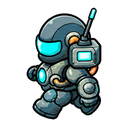
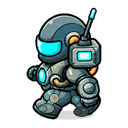
feat: add lower body motion, leg readability, and bulk stats for vanguard running frames

Changed region(s): [[0.4375, 0.6875, 0.75, 0.9375], [0.2812, 0.6875, 0.4688, 0.9062]]

diff --git a/src/visual/storyAssetFiles.test.ts b/src/visual/storyAssetFiles.test.ts
@@ -26,6 +26,19 @@ interface DiamondFlatnessStats {
   inner: LuminanceStats;
 }
 
+interface LowerBodyMotionStats {
+  horizontalCenterSpread: number;
+  opaquePixelSpread: number;
+}
+
+interface LowerBodyLegReadabilityStats {
+  averageSideToCenterLuminanceGap: number;
+}
+
+interface LowerBodyBulkStats {
+  averageOpaqueCoverage: number;
+}
+
 const A2_CITY_EXPECTED_DIMENSIONS: Record<
   string,
   { width: number; height: number }
@@ -395,6 +408,112 @@ function getDiamondQuadrantAverageSpread(png: PngInfo): number {
   return Math.max(...averages) - Math.min(...averages);
 }
 
+function getLowerBodyMotionStats(assetPaths: string[]): LowerBodyMotionStats {
+  const centers: number[] = [];
+  const opaquePixelCounts: number[] = [];
+
+  for (const assetPath of assetPaths) {
+    const png = readPngInfo(publicAssetPath(assetPath));
+    let weightedX = 0;
+    let alphaSum = 0;
+    let opaquePixelCount = 0;
+    const top = Math.floor(png.height * 0.76);
+    const bottom = Math.floor(png.height * 0.96);
+
+    for (let y = top; y < bottom; y += 1) {
+      for (let x = 0; x < png.width; x += 1) {
+        const index = (y * png.width + x) * 4;
+        const alpha = png.rgbaPixels[index + 3];
+        if (alpha < 150) continue;
+
+        weightedX += (x + 0.5) * alpha;
+        alphaSum += alpha;
+        opaquePixelCount += 1;
+      }
+    }
+
+    expect(alphaSum).toBeGreaterThan(0);
+    centers.push(weightedX / alphaSum);
+    opaquePixelCounts.push(opaquePixelCount);
+  }
+
+  return {
+    horizontalCenterSpread: Math.max(...centers) - Math.min(...centers),
+    opaquePixelSpread: Math.max(...opaquePixelCounts) - Math.min(...opaquePixelCounts),
+  };
+}
+
+function getLowerBodyLegReadabilityStats(assetPaths: string[]): LowerBodyLegReadabilityStats {
+  const sideToCenterLuminanceGaps: number[] = [];
+
+  for (const assetPath of assetPaths) {
+    const png = readPngInfo(publicAssetPath(assetPath));
+    let centerSum = 0;
+    let centerCount = 0;
+    let sideSum = 0;
+    let sideCount = 0;
+
+    for (let y = 95; y < 118; y += 1) {
+      for (let x = 0; x < png.width; x += 1) {
+        const index = (y * png.width + x) * 4;
+        if (png.rgbaPixels[index + 3] < 150) continue;
+
+        const luminance =
+          0.2126 * png.rgbaPixels[index] +
+          0.7152 * png.rgbaPixels[index + 1] +
+          0.0722 * png.rgbaPixels[index + 2];
+
+        if (x >= 60 && x <= 68) {
+          centerSum += luminance;
+          centerCount += 1;
+        } else if ((x >= 45 && x <= 56) || (x >= 72 && x <= 83)) {
+          sideSum += luminance;
+          sideCount += 1;
+        }
+      }
+    }
+
+    expect(centerCount).toBeGreaterThan(0);
+    expect(sideCount).toBeGreaterThan(0);
+    sideToCenterLuminanceGaps.push(sideSum / sideCount - centerSum / centerCount);
+  }
+
+  return {
+    averageSideToCenterLuminanceGap:
+      sideToCenterLuminanceGaps.reduce((sum, gap) => sum + gap, 0) /
+      sideToCenterLuminanceGaps.length,
+  };
+}
+
+function getLowerBodyBulkStats(assetPaths: string[]): LowerBodyBulkStats {
+  const opaqueCoverages: number[] = [];
+
+  for (const assetPath of assetPaths) {
+    const png = readPngInfo(publicAssetPath(assetPath));
+    let opaquePixels = 0;
+    let sampledPixels = 0;
+
+    for (let y = 92; y < 118; y += 1) {
+      for (let x = 42; x <= 86; x += 1) {
+        const index = (y * png.width + x) * 4;
+        sampledPixels += 1;
+        if (png.rgbaPixels[index + 3] > 150) {
+          opaquePixels += 1;
+        }
+      }
+    }
+
+    expect(sampledPixels).toBeGreaterThan(0);
+    opaqueCoverages.push(opaquePixels / sampledPixels);
+  }
+
+  return {
+    averageOpaqueCoverage:
+      opaqueCoverages.reduce((sum, coverage) => sum + coverage, 0) /
+      opaqueCoverages.length,
+  };
+}
+
 describe("story slice asset files", () => {
   it("has a committed file for every manifest path", () => {
     const missing = getStorySliceAssetPaths(STORY_SLICE_ASSETS).filter((assetPath) => {
@@ -430,6 +549,37 @@ describe("story slice asset files", () => {
       expect(flatness.inner.average - flatness.edge.average).toBeLessThan(6);
       expect(flatness.edge.standardDeviation).toBeLessThan(18);
       expect(getDiamondQuadrantAverageSpread(png)).toBeLessThan(2);
+    }
+  });
+
+  it("gives vanguard left and right running frames visible alternating leg motion", () => {
+    const run = STORY_SLICE_ASSETS.characters.vanguard.animations.run!;
+
+    for (const direction of ["left", "right"] as const) {
+      const motion = getLowerBodyMotionStats(run[direction].frames);
+
+      expect(motion.horizontalCenterSpread).toBeGreaterThan(3.2);
+      expect(motion.opaquePixelSpread).toBeGreaterThan(34);
+    }
+  });
+
+  it("keeps vanguard horizontal running legs free of a harsh center seam", () => {
+    const run = STORY_SLICE_ASSETS.characters.vanguard.animations.run!;
+
+    for (const direction of ["left", "right"] as const) {
+      const readability = getLowerBodyLegReadabilityStats(run[direction].frames);
+
+      expect(readability.averageSideToCenterLuminanceGap).toBeLessThan(45);
+    }
+  });
+
+  it("keeps vanguard horizontal running legs close to the idle armored mass", () => {
+    const run = STORY_SLICE_ASSETS.characters.vanguard.animations.run!;
+
+    for (const direction of ["left", "right"] as const) {
+      const bulk = getLowerBodyBulkStats(run[direction].frames);
+
+      expect(bulk.averageOpaqueCoverage).toBeGreaterThan(0.74);
     }
   });
 });
